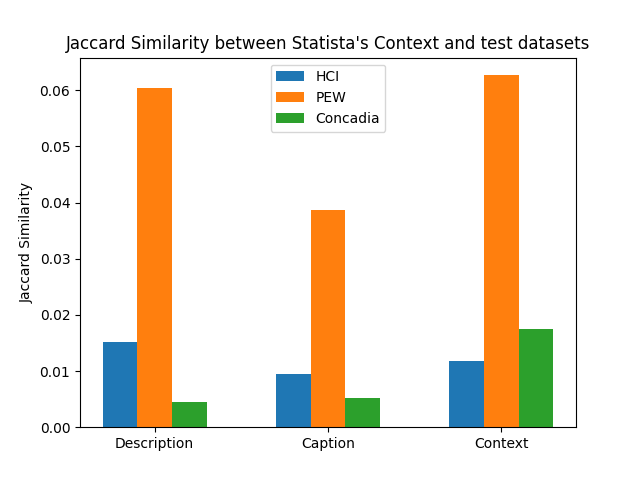
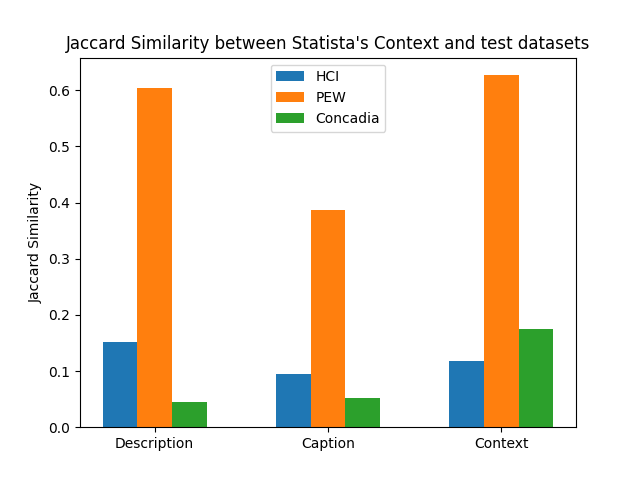
add context comparison for Pew and Statista

diff --git a/dataset_qa/jacard_similarity.py b/dataset_qa/jacard_similarity.py
@@ -108,9 +108,9 @@ statista = datasets_sets['statista']
 dataset_jaccard_values = {}
 for dataset in datasets:
     if dataset != 'statista':
-        ctx_desc_jaccard = jaccard(statista['ctx'], datasets_sets[dataset]['desc'])
-        ctx_caption_jaccard = jaccard(statista['ctx'], datasets_sets[dataset]['cap'])
-        ctx_context_jaccard = jaccard(statista['ctx'], datasets_sets[dataset]['ctx'])
+        ctx_desc_jaccard = 10*jaccard(statista['ctx'], datasets_sets[dataset]['desc'])
+        ctx_caption_jaccard = 10*jaccard(statista['ctx'], datasets_sets[dataset]['cap'])
+        ctx_context_jaccard = 10*jaccard(statista['ctx'], datasets_sets[dataset]['ctx'])
         print(f"Jaccard similarity between statista and {dataset} description: {ctx_desc_jaccard:.4f}")
         print(f"Jaccard similarity between statista and {dataset} caption: {ctx_caption_jaccard:.4f}")
         print(f"Jaccard similarity between statista and {dataset} context: {ctx_context_jaccard:.4f}")
@@ -136,3 +136,37 @@ ax.set_title('Jaccard Similarity between Statista\'s Context and test datasets')
 ax.legend()
 # plt.show()
 plt.savefig('jaccard/jaccard_similarity_statista_context_others.png')
+
+# Compute jaccard similarity between context of pew and other datasets
+pew = datasets_sets['pew']
+dataset_jaccard_values = {}
+for dataset in datasets:
+    if dataset != 'pew':
+        ctx_desc_jaccard = jaccard(pew['ctx'], datasets_sets[dataset]['desc'])
+        ctx_caption_jaccard = jaccard(pew['ctx'], datasets_sets[dataset]['cap'])
+        ctx_context_jaccard = jaccard(pew['ctx'], datasets_sets[dataset]['ctx'])
+        print(f"Jaccard similarity between pew and {dataset} description: {ctx_desc_jaccard:.4f}")
+        print(f"Jaccard similarity between pew and {dataset} caption: {ctx_caption_jaccard:.4f}")
+        print(f"Jaccard similarity between pew and {dataset} context: {ctx_context_jaccard:.4f}")
+        print("=====")
+        dataset_jaccard_values[dataset] = [ctx_desc_jaccard, ctx_caption_jaccard, ctx_context_jaccard]
+
+hci_values = dataset_jaccard_values['hci']
+statista_values = dataset_jaccard_values['statista']
+concadia_values = dataset_jaccard_values['concadia']
+
+# Bar plot
+x_labels = ['Description', 'Caption', 'Context']
+x = range(len(x_labels))
+width = 0.2
+fig, ax = plt.subplots()
+ax.bar([i-width for i in x], hci_values, width, label='HCI')
+ax.bar(x, pew_values, width, label='Statista')
+ax.bar([i+width for i in x], concadia_values, width, label='Concadia')
+ax.set_xticks(x)
+ax.set_xticklabels(x_labels)
+ax.set_ylabel('Jaccard Similarity')
+ax.set_title('Jaccard Similarity between Pew\'s Context and test datasets')
+ax.legend()
+# plt.show()
+plt.savefig('jaccard/jaccard_similarity_pew_context_others.png')
